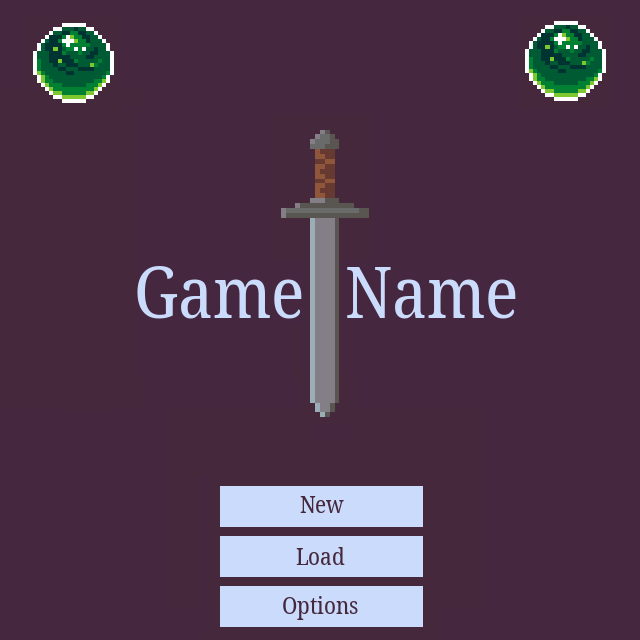
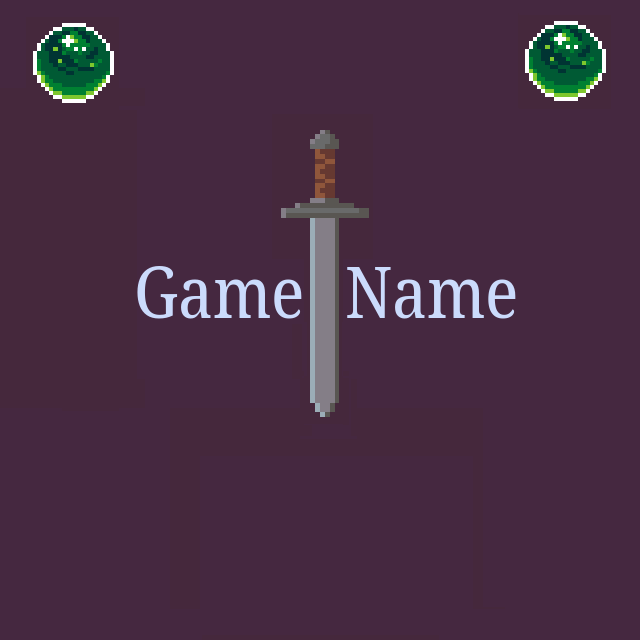
interactable home buttons

Changed region(s): [[0.3438, 0.75, 0.6875, 1.0]]

diff --git a/js/HomeScene.js b/js/HomeScene.js
@@ -9,14 +9,38 @@ export default class HomeScene extends Phaser.Scene {
 
     create() {
         this.add.image(0, 0, 'homescene').setOrigin(0).setScale(1);
+        this.setupNewButton();
+        this.setupLoadButton();
+        this.setupOptionsButton();
+    }
 
-        this.input.keyboard.on('keydown', () => {
-            this.scene.stop('HomeScene')
-            this.scene.start('Map1')
-        })
-        this.input.on('pointerdown', () => {
-            this.scene.stop('HomeScene')
-            this.scene.start('Map1')
-        })
+    setupNewButton() {
+        const newButton = this.add.rectangle(320, 480, 200, 50, 0xcbdbfc).setInteractive();
+        newButton.on('pointerover', () => newButton.setFillStyle(0xa3bffa));
+        newButton.on('pointerout', () => newButton.setFillStyle(0xcbdbfc));
+        newButton.on('pointerdown', () => {
+            this.scene.stop('HomeScene');
+            this.scene.start('Map1');
+        });
+        const newButtonText = this.add.text(320, 480, 'New', { fontSize: '24px', fontFamily: 'Arial', fill: '#452840', resolution: 4 }).setOrigin(0.5, 0.5);
+        this.add.container(0, 0, [newButton, newButtonText]);
+    }
+
+    setupLoadButton(){
+        const loadButton = this.add.rectangle(320, 540, 200, 50, 0xcbdbfc).setInteractive();
+        loadButton.on('pointerover', () => loadButton.setFillStyle(0xa3bffa));
+        loadButton.on('pointerout', () => loadButton.setFillStyle(0xcbdbfc));
+        loadButton.on('pointerdown', () => {console.log(`Load Button Clicked.`)});
+        const loadButtonText = this.add.text(320, 540, 'Load', { fontSize: '24px', fontFamily: 'Arial', fill: '#452840', resolution: 4 }).setOrigin(0.5, 0.5);
+        this.add.container(0, 0, [loadButton, loadButtonText]);
+    }
+
+    setupOptionsButton() {
+        const optionsButton = this.add.rectangle(320, 600, 200, 50, 0xcbdbfc).setInteractive();
+        optionsButton.on('pointerover', () => optionsButton.setFillStyle(0xa3bffa));
+        optionsButton.on('pointerout', () => optionsButton.setFillStyle(0xcbdbfc));
+        optionsButton.on('pointerdown', () => {console.log(`Options Button Clicked.`)});
+        const optionsButtonText = this.add.text(320, 600, 'Options', { fontSize: '24px', fontFamily: 'Arial', fill: '#452840', resolution: 4 }).setOrigin(0.5, 0.5);
+        this.add.container(0, 0, [optionsButton, optionsButtonText]);
     }
 }
